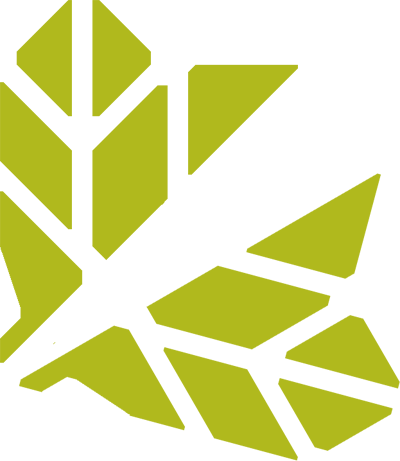
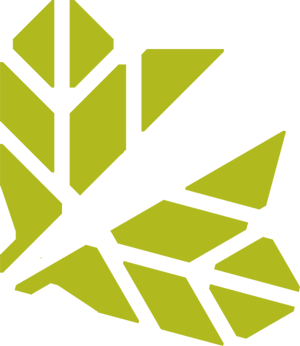
404 page

diff --git a/mhnweb/templates/errors/404.html b/mhnweb/templates/errors/404.html
@@ -2,15 +2,27 @@
 
 {% load i18n %}
 {% block indexpage %}
-<div class="span10">
-	<img src="{{ MEDIA_URL }}uploads/broken_leaf.png" alt="404" />
+<div class="container">
+	<div class="row">
+		<div class="span4">
+			<img src="{{ MEDIA_URL }}uploads/broken_leaf.png" alt="404" />
+		</div>
 
-{% block title %}
-<h1><b>{% trans "Error 404 – Not Found" %}</b></h1>
-{% endblock %}
+		<div class="span5">
+			{% block title %}
+			<h1><b>{% trans "Error 404 – Not Found" %}</b></h1>
+			{% endblock %}
 
-{% block main %}
-{% trans "Sorry, but what you’re looking for isn’t here. Perhaps you typed a URL incorrectly or clicked on a broken hyperlink." %}
-{% endblock %}
+			{% block main %}
+			<h4>
+			{% trans "Sorry, but what you’re looking for isn’t here. Perhaps you typed a URL incorrectly or clicked on a broken hyperlink." %}
+			</h4>
+			{% endblock %}
+
+			{% block errorlink %}
+			<a href="{% url "home" %}"><b>Return to the homepage.</b></a>
+			{% endblock %}
+		</div>
+	</div>
 </div>
 {% endblock %}

diff --git a/mhnweb/templates/base.html b/mhnweb/templates/base.html
@@ -54,6 +54,7 @@
 </head>
 <body id="{% block body_id %}body{% endblock %}">
 
+{% block indexpage %}
 <div class="mainborder">
 <div class="container">
 
@@ -65,7 +66,7 @@
 {% endfor %}
 {% endnevercache %}
 
-{% block indexpage %}
+
 <div class="main_logo span4">
     <a href="{% url "home" %}">
         <img src="{{ MEDIA_URL }}uploads/mhn_logo.png">

diff --git a/mhnweb/static/css/mezzanine.css b/mhnweb/static/css/mezzanine.css
@@ -8,6 +8,9 @@
   -moz-border-radius-topleft: 10px;
   border-top-left-radius: 10px;
 }
+.nomargin {
+  margin-left: 0px!important;
+}
 /* General elements */
 h3 {margin:10px 0;}
 h5 {line-height:140%; margin:20px 0 10px 0;}

diff --git a/mhnweb/settings.py b/mhnweb/settings.py
@@ -1,4 +1,3 @@
-ALLOWED_HOSTS = ['*']
 ######################
 # MEZZANINE SETTINGS #
 ######################
